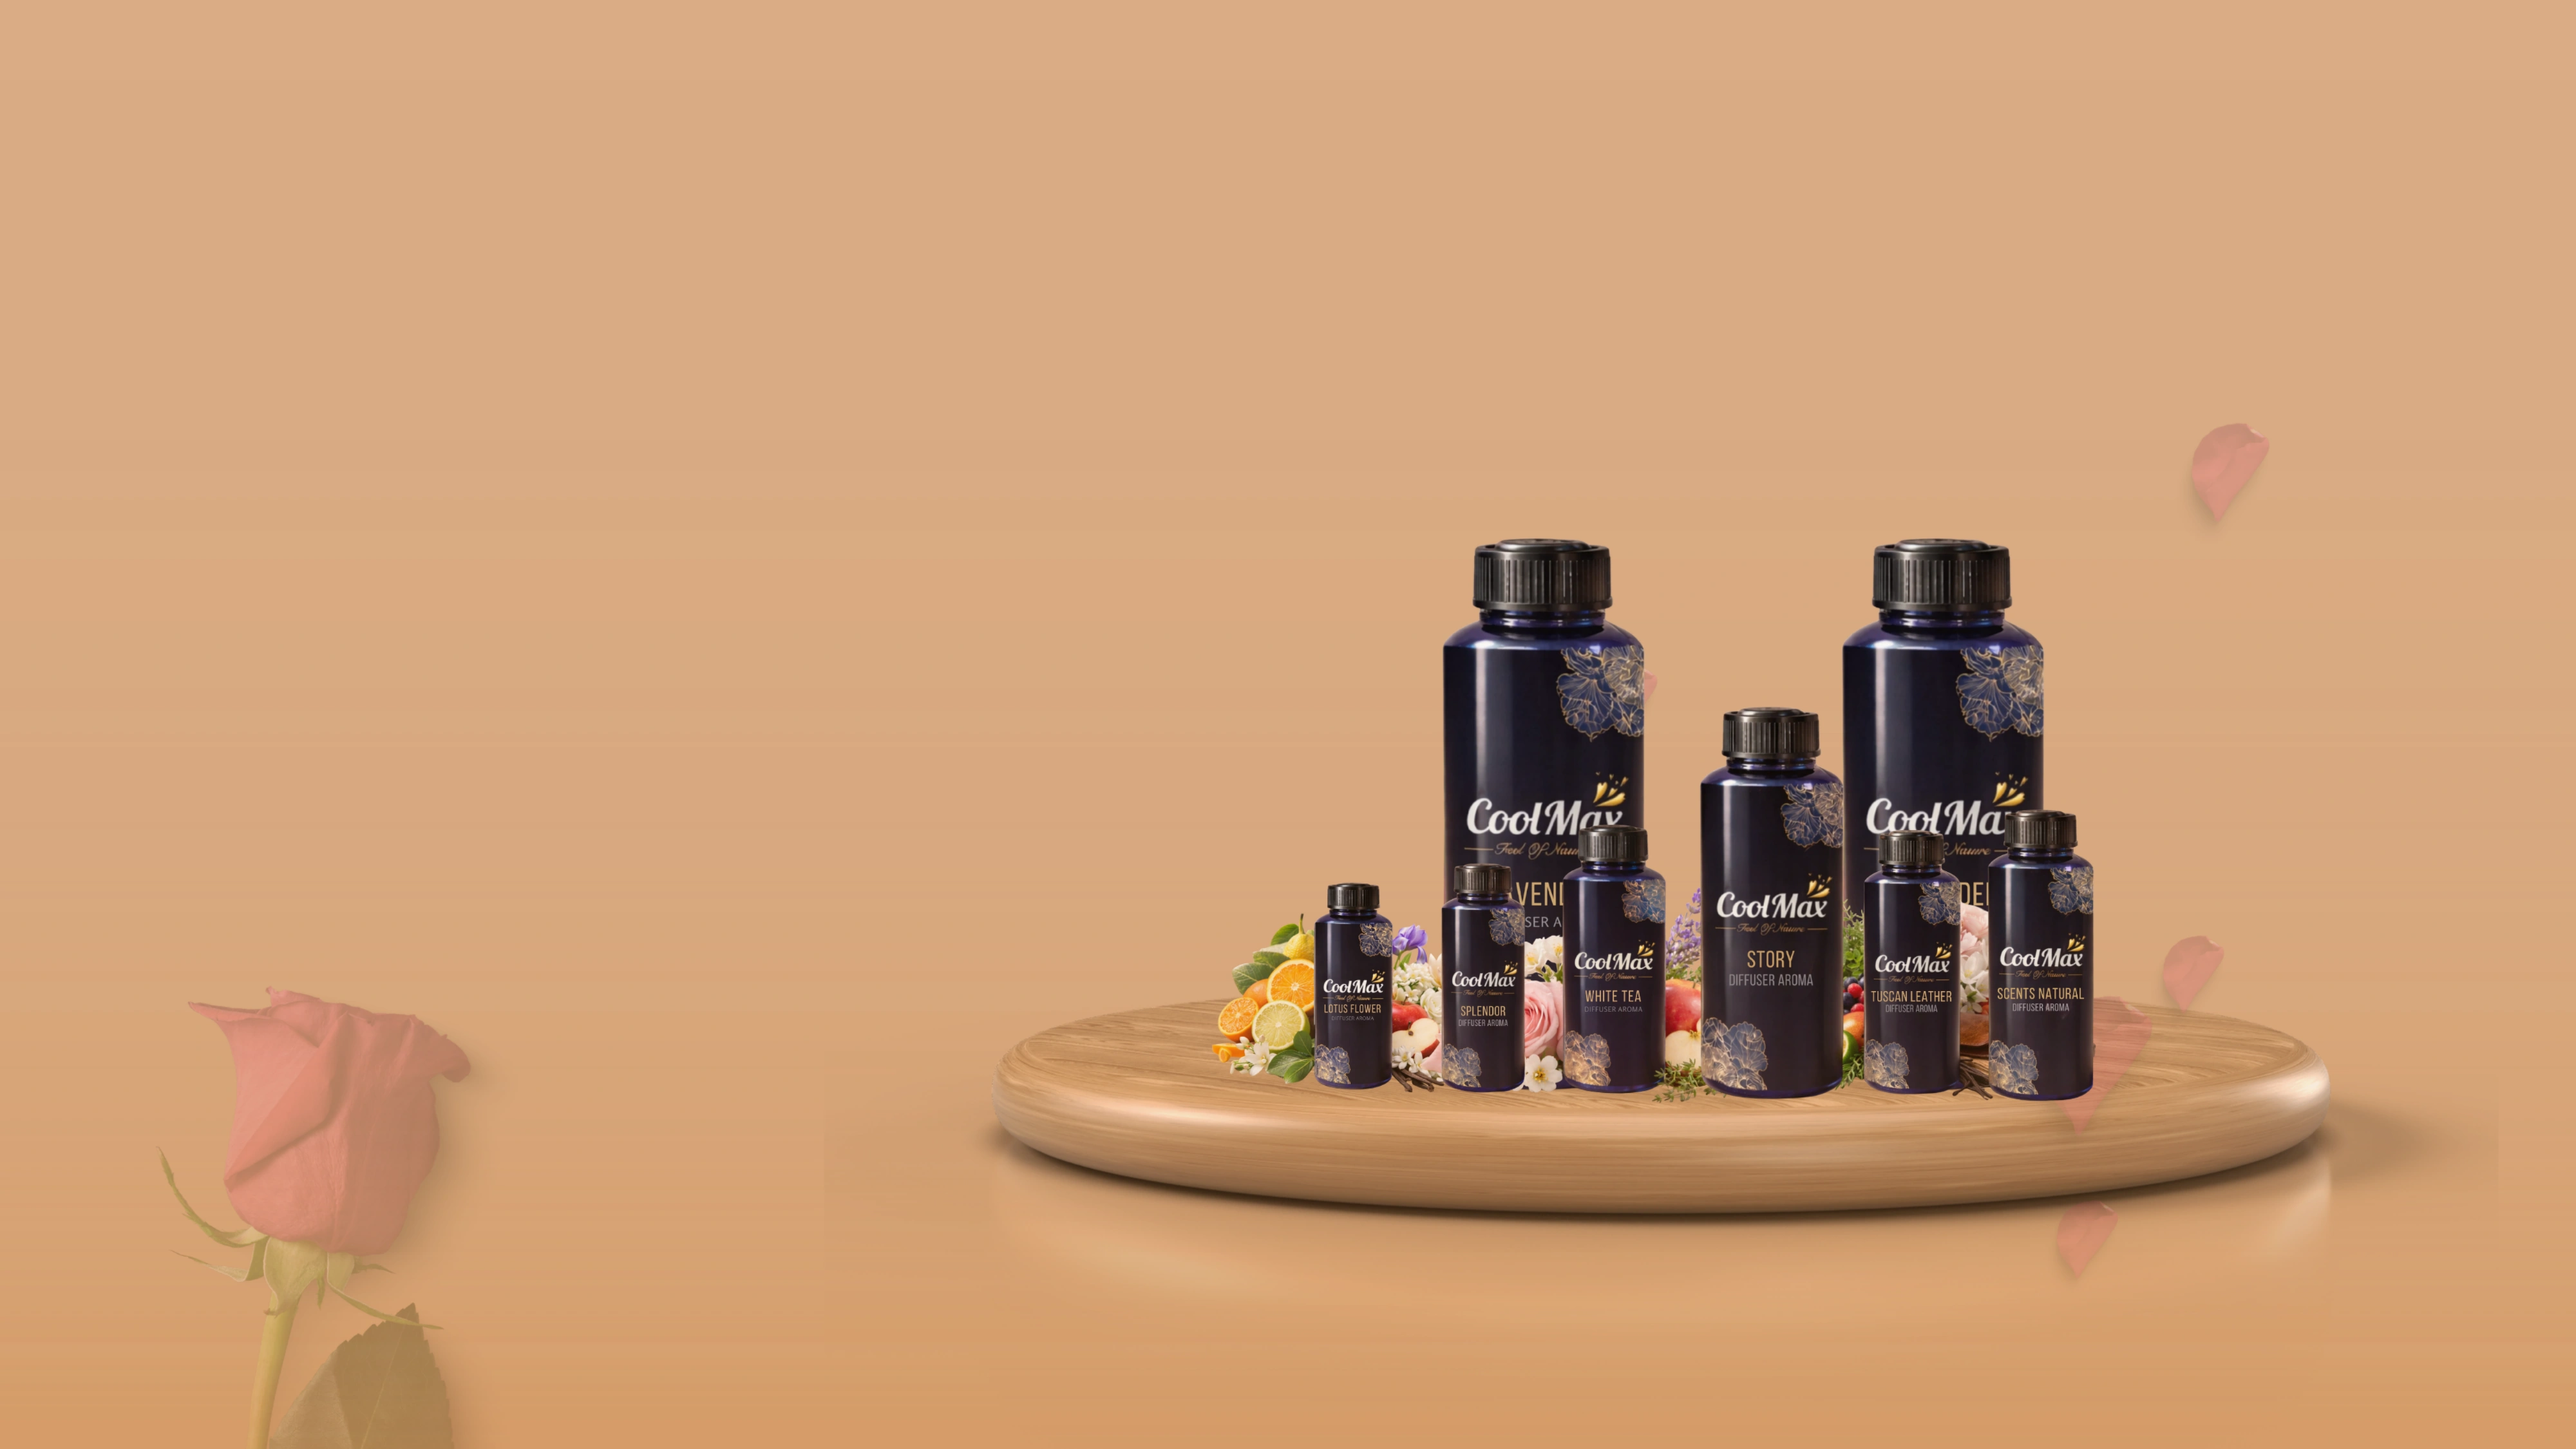
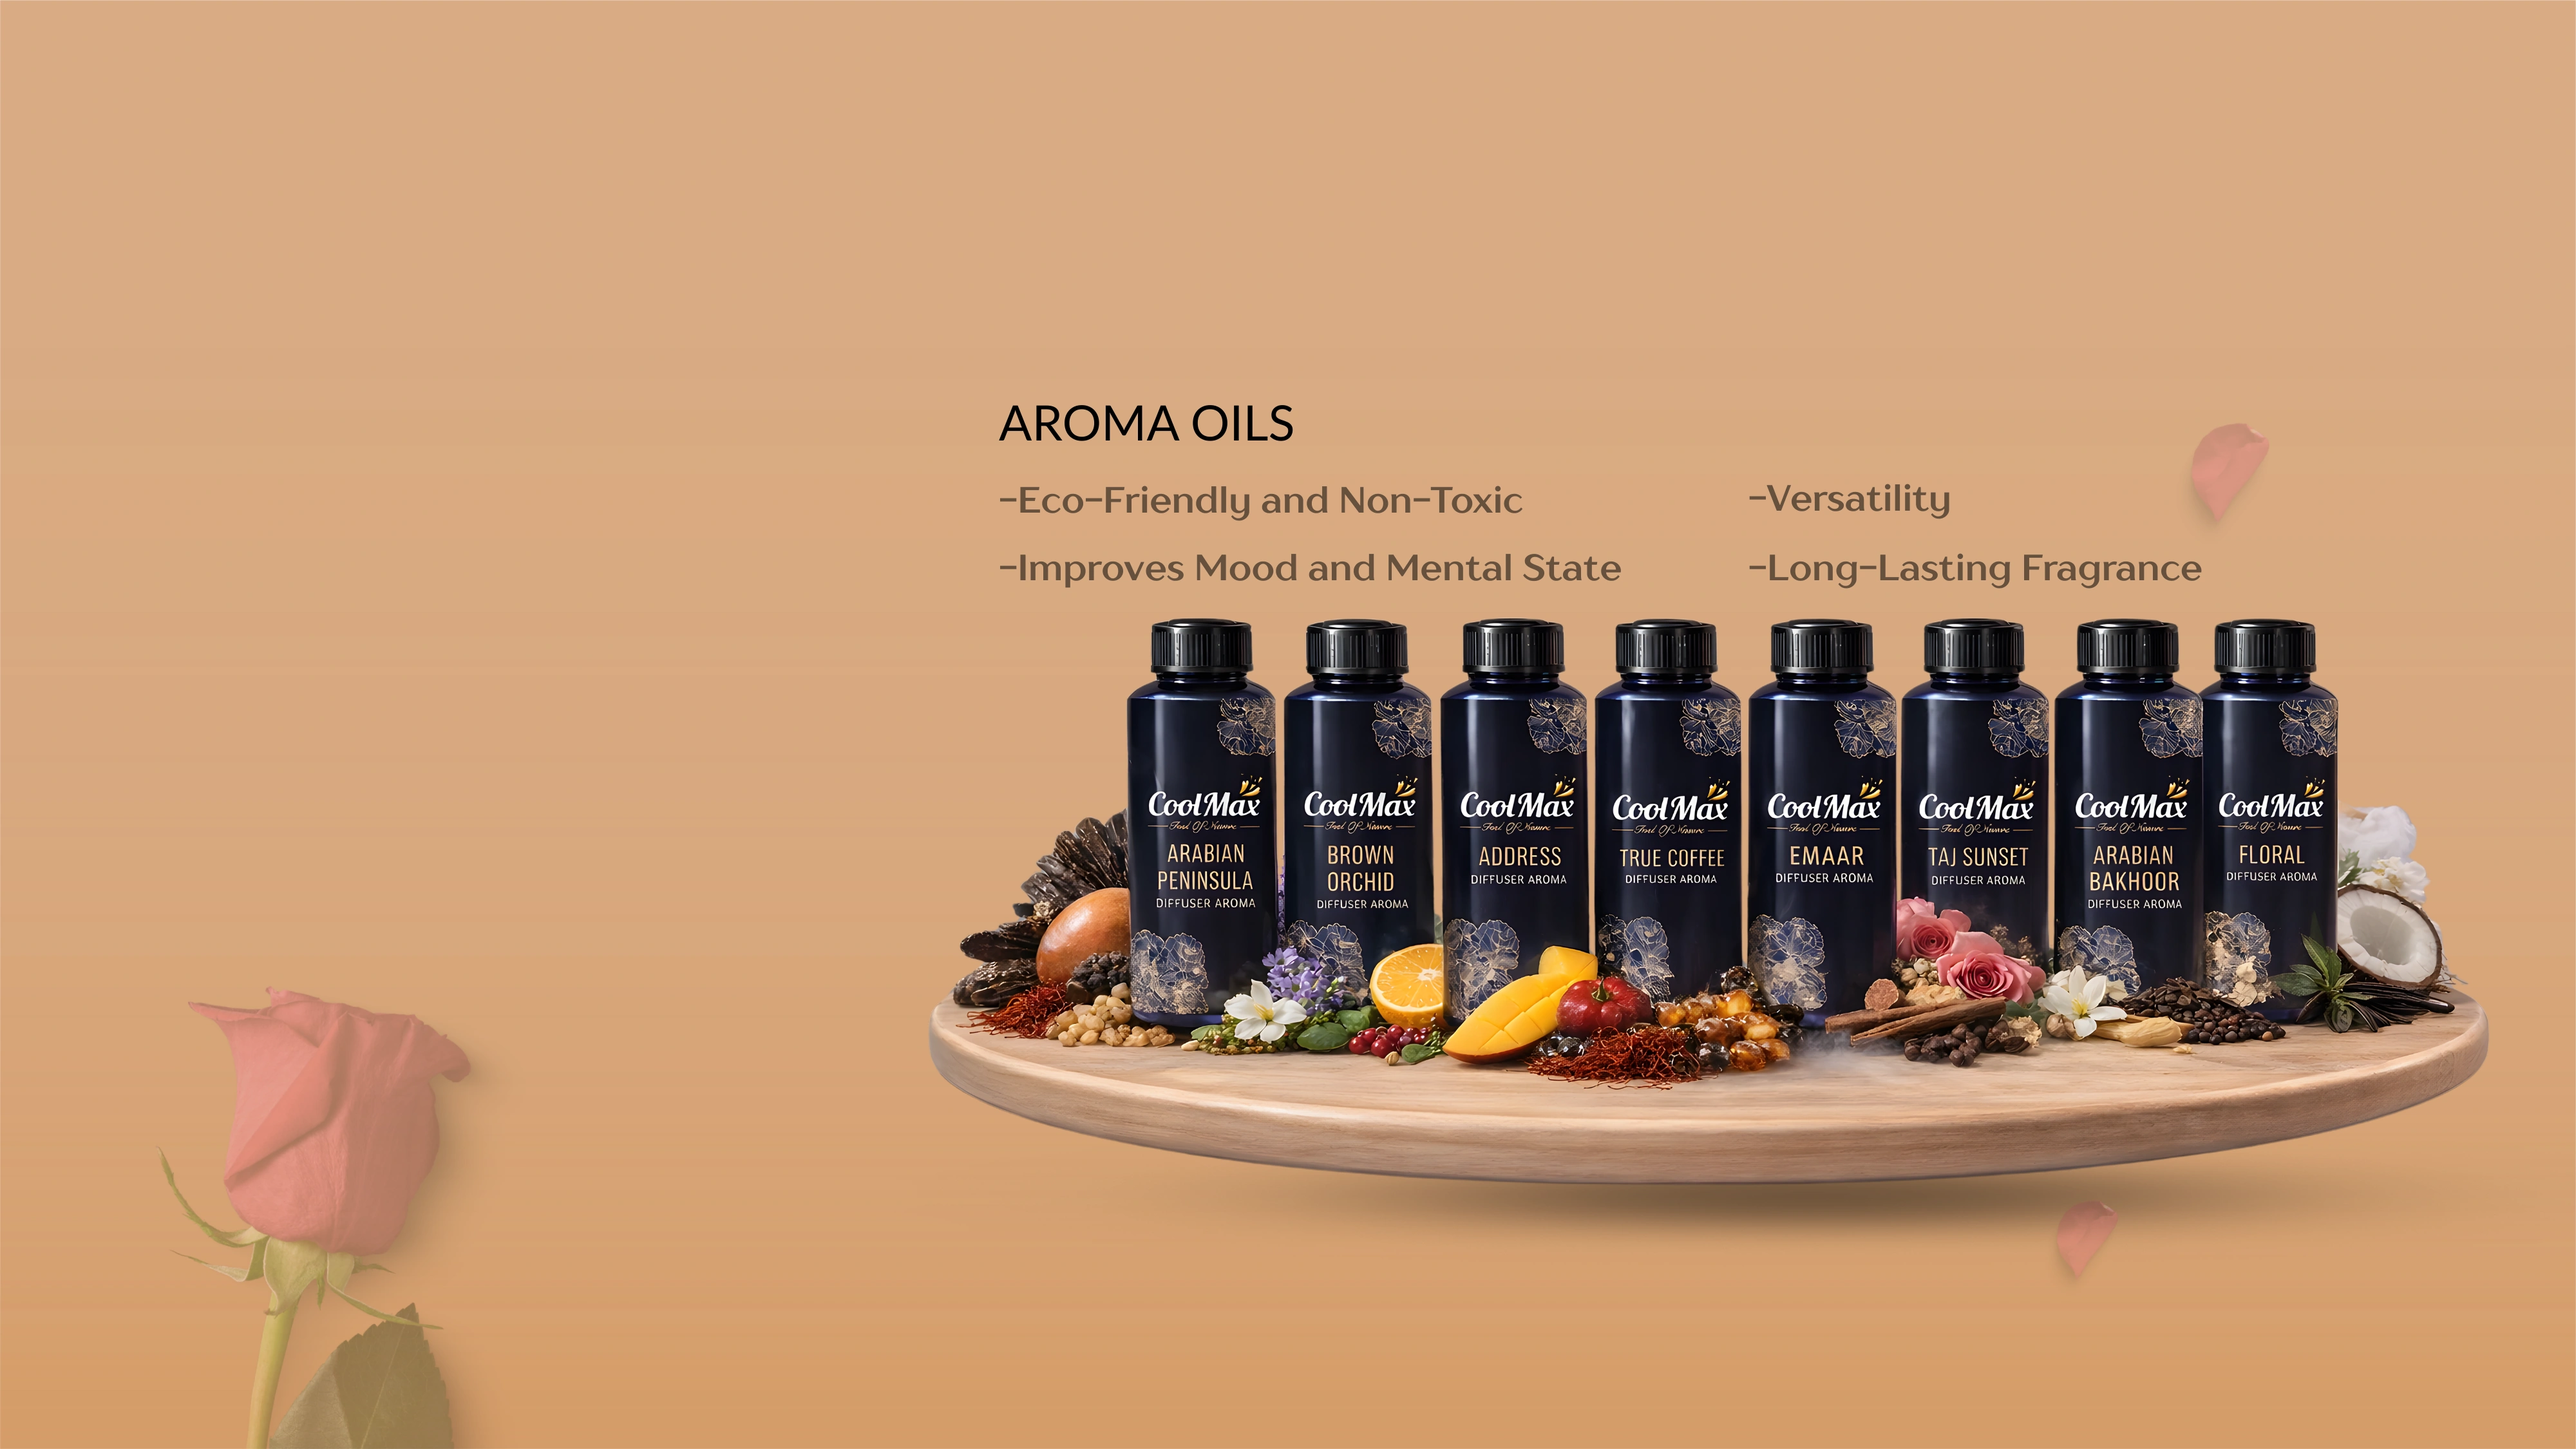
newbanner

Changed region(s): [[0.3438, 0.3422, 0.9688, 0.8711], [0.375, 0.28, 0.5, 0.3111]]

diff --git a/public/index.html b/public/index.html
@@ -1,72 +1,132 @@
 <!DOCTYPE html>
+
 <html lang="en">
+
   <head>
+
+    <!-- Google Tag Manager -->
+    <script>(function(w,d,s,l,i){w[l]=w[l]||[];w[l].push({'gtm.start':
+    new Date().getTime(),event:'gtm.js'});var f=d.getElementsByTagName(s)[0],
+    j=d.createElement(s),dl=l!='dataLayer'?'&l='+l:'';j.async=true;j.src=
+    'https://www.googletagmanager.com/gtm.js?id='+i+dl;f.parentNode.insertBefore(j,f);
+    })(window,document,'script','dataLayer','GTM-WVMPRDWR');</script>
+    <!-- End Google Tag Manager -->
+
     <!-- ================= BASIC ================= -->
+
     <meta charset="utf-8" />
+
     <meta http-equiv="X-UA-Compatible" content="IE=edge" />
+
     <meta name="viewport" content="width=device-width, initial-scale=1" />
 
+
+
     <!-- ================= TITLE ================= -->
+
     <title>Cool Max | Premium Scenting Solutions for Homes & Businesses</title>
 
+
+
     <!-- ================= PRIMARY SEO ================= -->
+
     <meta
       name="description"
       content="Cool Max provides premium scent diffusers and fragrance solutions for homes, hotels, offices, retail spaces, HVAC systems, and automobiles across UAE & Qatar."
     />
+
     <meta
       name="keywords"
       content="scent diffuser, fragrance solutions, HVAC scenting, hotel scent marketing, car scent diffuser, office fragrance, Cool Max scent"
     />
+
     <meta name="author" content="Cool Max Scent Solutions" />
+
     <meta name="robots" content="index, follow" />
 
+
+
     <!-- ================= THEME ================= -->
+
     <meta name="theme-color" content="#ffffff" />
 
+
+
     <!-- ================= FAVICONS ================= -->
+
     <link rel="icon" href="%PUBLIC_URL%/favicon.ico" />
+
     <link rel="apple-touch-icon" sizes="180x180" href="%PUBLIC_URL%/apple-touch-icon.png" />
+
     <link rel="icon" type="image/png" sizes="32x32" href="%PUBLIC_URL%/favicon-32x32.png" />
+
     <link rel="icon" type="image/png" sizes="16x16" href="%PUBLIC_URL%/favicon-16x16.png" />
 
+
+
     <!-- ================= PWA ================= -->
+
     <link rel="manifest" href="%PUBLIC_URL%/manifest.json" />
 
+
+
     <!-- ================= OPEN GRAPH (FACEBOOK, LINKEDIN) ================= -->
+
     <meta property="og:type" content="website" />
+
     <meta property="og:title" content="Cool Max | Premium Scenting Solutions" />
+
     <meta
       property="og:description"
       content="Transform spaces with intelligent scent solutions for homes, hotels, offices, and commercial environments."
     />
+
     <meta property="og:url" content="https://www.coolmaxscent.com/" />
+
     <meta property="og:image" content="%PUBLIC_URL%/seo/og-image.jpg" />
+
     <meta property="og:site_name" content="Cool Max" />
 
+
+
     <!-- ================= TWITTER ================= -->
+
     <meta name="twitter:card" content="summary_large_image" />
+
     <meta name="twitter:title" content="Cool Max | Premium Scenting Solutions" />
+
     <meta
       name="twitter:description"
       content="Smart scent diffusers and fragrance systems for modern environments."
     />
+
     <meta name="twitter:image" content="%PUBLIC_URL%/seo/twitter-image.jpg" />
 
+
+
     <!-- ================= CANONICAL ================= -->
+
     <link rel="canonical" href="https://www.coolmaxscent.com/" />
 
+
+
     <!-- ================= PERFORMANCE ================= -->
+
     <link rel="preconnect" href="https://fonts.googleapis.com" />
+
     <link rel="preconnect" href="https://fonts.gstatic.com" crossorigin />
 
-    <!-- Example font (optional) -->
+
+
     <link
       href="https://fonts.googleapis.com/css2?family=Inter:wght@300;400;500;600;700;800&display=swap"
       rel="stylesheet"
     />
 
+
+
     <!-- ================= STRUCTURED DATA (JSON-LD) ================= -->
+
     <script type="application/ld+json">
       {
         "@context": "https://schema.org",
@@ -89,24 +149,21 @@
       }
     </script>
 
-    <!-- ================= GOOGLE ANALYTICS (OPTIONAL) ================= -->
-    <!--
-    <script async src="https://www.googletagmanager.com/gtag/js?id=G-XXXXXXX"></script>
-    <script>
-      window.dataLayer = window.dataLayer || [];
-      function gtag(){dataLayer.push(arguments);}
-      gtag('js', new Date());
-      gtag('config', 'G-XXXXXXX');
-    </script>
-    -->
-
   </head>
 
+
+
   <body>
+
+    <!-- Google Tag Manager (noscript) -->
+    <noscript><iframe src="https://www.googletagmanager.com/ns.html?id=GTM-WVMPRDWR"
+    height="0" width="0" style="display:none;visibility:hidden"></iframe></noscript>
+    <!-- End Google Tag Manager (noscript) -->
+
     <noscript>You need to enable JavaScript to run this app.</noscript>
 
-    <!-- ================= ROOT ================= -->
     <div id="root"></div>
 
   </body>
+
 </html>

diff --git a/src/component/hero.jsx b/src/component/hero.jsx
@@ -3,7 +3,7 @@ import { ArrowRightIcon, ShoppingBagIcon } from "@heroicons/react/24/solid";
 
 // --- ASSET IMPORTS ---
 import Banner1 from "../asset/hero/herobanner1.webp"; 
-import Banner2 from "../asset/hero/herobanner2.webp"; 
+import Banner2 from "../asset/hero/herobanner2 (2).webp"; 
 // --- NEW MOBILE ASSETS ---
 import MobileBanner1 from "../asset/hero/mobileherobanner1.webp"; 
 import MobileBanner2 from "../asset/hero/mobileherobanner2.webp"; 
